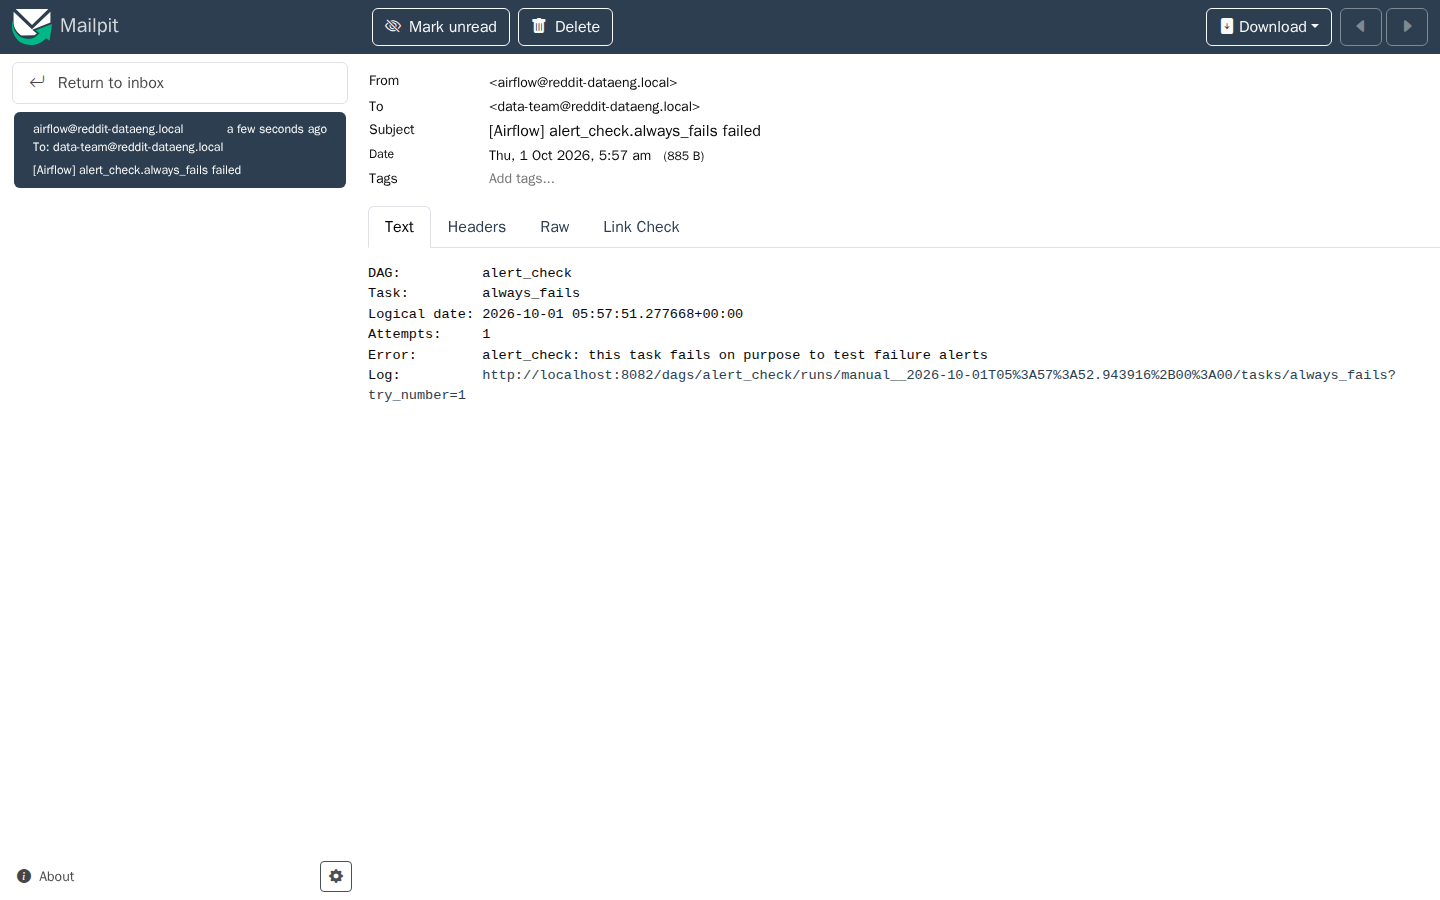
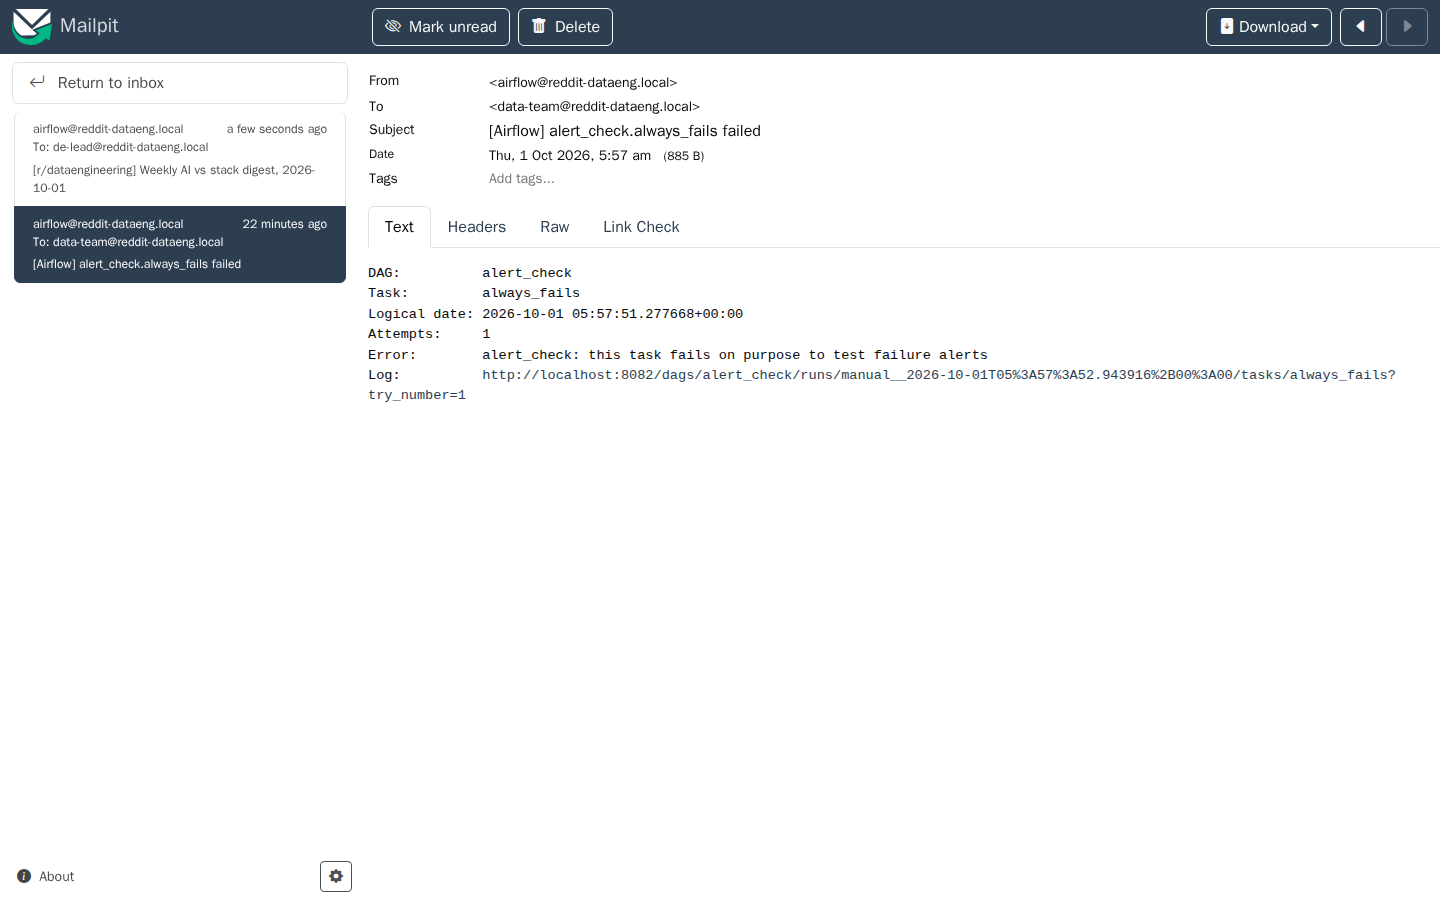
docs: document the weekly digest

Changed region(s): [[0.0, 0.1244, 0.25, 0.3422]]

diff --git a/scripts/screenshots.py b/scripts/screenshots.py
@@ -66,12 +66,13 @@ def rustfs(page: Page) -> None:
 
 
 def mailpit(page: Page) -> None:
-    # run `make alert-test` first so the inbox has an alert in it
-    page.goto(f"http://{HOST}:{os.environ.get('MAILPIT_PORT', '8025')}/", wait_until="networkidle")
-    page.locator(".message").first.click()
-    page.wait_for_load_state("networkidle")
-    page.wait_for_timeout(2_000)
-    save(page, "mailpit-alert.png")
+    # run `make alert-test` and `make digest-test` first so the inbox has one of each
+    for name, subject in (("mailpit-alert.png", "failed"), ("mailpit-digest.png", "digest")):
+        page.goto(f"http://{HOST}:{os.environ.get('MAILPIT_PORT', '8025')}/", wait_until="networkidle")
+        page.locator(".message", has_text=subject).first.click()
+        page.wait_for_load_state("networkidle")
+        page.wait_for_timeout(2_000)
+        save(page, name)
 
 
 def main() -> None:

diff --git a/README.md b/README.md
@@ -23,7 +23,7 @@ Python · Airflow 3 · RustFS (S3) · ClickHouse · dbt · Streamlit · Docker C
 | Airflow | Daily `reddit_ingest` DAG and the Asset-triggered `reddit_dbt` DAG | http://localhost:8082 |
 | dbt | Staging, facts and marts, the `tools` seed and 64 tests | `make dbt-docs` → http://localhost:8081 |
 | Streamlit | Dashboard, reading marts as the read-only `dashboard` user | http://localhost:8501 |
-| Mailpit | Local inbox for failure alerts from Airflow | http://localhost:8025 |
+| Mailpit | Local inbox for failure alerts and the weekly digest | http://localhost:8025 |
 
 The full design is in the [4+1 View Model](docs/architecture/).
 
@@ -44,7 +44,7 @@ top of storage, and every stage leans on the same undercurrents.
 | Serving | Marts granted to a read-only `analyst` role | [`scripts/create_users.sh`](scripts/create_users.sh) |
 | Analytics | Streamlit dashboard for a DE lead; it only selects from marts, no calculations of its own | [`dashboard/`](dashboard/) |
 | Machine learning | Not covered yet | — |
-| Reverse ETL | Not covered yet | — |
+| Reverse ETL | A weekly digest email to the DE lead, built from the marts by the `reddit_digest` DAG | [`scripts/send_digest.py`](scripts/send_digest.py), [`reddit_digest`](airflow/dags/reddit_digest.py) |
 
 | Undercurrent | In this project |
 |---|---|
@@ -52,7 +52,7 @@ top of storage, and every stage leans on the same undercurrents.
 | Data management | [Governance](docs/governance.md): pseudonymised usernames, PII tags, dbt docs and lineage, known data limits, raw-bucket backup and restore |
 | DataOps | dbt tests, source freshness gate, retries with backoff, email alerts on failed tasks, idempotent reloads, raw-bucket backup, and CI that runs the whole pipeline on fixtures |
 | Data architecture | [4+1 View Model](docs/architecture/) and key decisions |
-| Orchestration | Airflow 3: a daily ingest DAG, an Asset-triggered dbt DAG, and an `alert_check` DAG that tests the alert path |
+| Orchestration | Airflow 3: a daily ingest DAG, an Asset-triggered dbt DAG, a weekly digest DAG, and an `alert_check` DAG that tests the alert path |
 | Software engineering | Conventional Commits, uv projects, Makefile, Docker Compose, pinned image versions, ruff and pytest |
 
 ## Features
@@ -64,6 +64,8 @@ top of storage, and every stage leans on the same undercurrents.
   source freshness check stops it on stale data.
 - **Failure alerts:** a task that still fails after its retries sends an email with the error
   and a link to its log.
+- **Weekly digest (reverse ETL):** every Monday the DE lead gets the headline numbers and the
+  biggest tool moves by email, without opening the dashboard.
 - **Tested models:** 64 dbt tests, unit tests for the scripts, and CI that runs the whole
   pipeline on synthetic fixtures.
 - **Governed serving:** usernames are pseudonymised and the dashboard can read marts only.
@@ -120,7 +122,7 @@ When the backfill is done, the `reddit-raw` bucket holds one file per day for po
 | What | Where |
 |---|---|
 | Dashboard | http://localhost:8501 |
-| Failure alerts (Mailpit) | http://localhost:8025 |
+| Failure alerts and weekly digest (Mailpit) | http://localhost:8025 |
 | Airflow (airflow / airflow) | http://localhost:8082 (`AIRFLOW_PORT` in `.env`) — unpause `reddit_ingest` (daily at 02:00 UTC) and `reddit_dbt` (runs after each ingest) |
 | RustFS console | http://localhost:9001/rustfs/console/ (RustFS keys from `.env`) |
 | dbt docs and lineage | `make dbt-docs`, then http://localhost:8081 |
@@ -135,8 +137,13 @@ in Mailpit; `make alert-test` runs the `alert_check` DAG, which fails on purpose
 
 ![Mailpit: failure alert](docs/images/mailpit-alert.png)
 
-To send alerts to a real inbox, point `ALERT_SMTP_HOST`, `ALERT_SMTP_PORT` and `ALERT_EMAIL_TO`
-at your mail server.
+Every Monday at 06:00 UTC, `reddit_digest` reads the marts as the read-only `dashboard` user and
+emails the DE lead a short digest; `make digest-test` sends one now:
+
+![Mailpit: weekly digest](docs/images/mailpit-digest.png)
+
+To send alerts and the digest to a real inbox, point `SMTP_HOST`, `SMTP_PORT`, `ALERT_EMAIL_TO`
+and `DIGEST_EMAIL_TO` at your mail server.
 
 `make screenshots` captures these images again from the running stack.
 
@@ -163,6 +170,7 @@ Run `make` (or `make help`) to list them:
 | `make ingest-test DAY=…` | Run the `reddit_ingest` DAG once for one day (extract and load only) |
 | `make dbt-test` | Run the `reddit_dbt` DAG once (source freshness, then dbt build) |
 | `make alert-test` | Run the `alert_check` DAG once; a failure email should appear in Mailpit |
+| `make digest-test` | Run the `reddit_digest` DAG once; the weekly digest should appear in Mailpit |
 | `make screenshots [SHOTS=…]` | Capture the README screenshots from the running stack into `docs/images/` |
 | `make diagrams` | Render the PlantUML architecture diagrams to SVG |
 
@@ -211,7 +219,7 @@ the daily DAGs are running, and all 64 dbt tests pass.
 ## Tests and CI
 
     make lint    # ruff
-    make test    # unit tests for the extract, load and backup scripts and the alert email (no network)
+    make test    # unit tests for the scripts, the alert and the digest (no network)
 
 [GitHub Actions](.github/workflows/ci.yml) runs two jobs on every push and pull request to `main`:
 
@@ -228,11 +236,11 @@ comments and deleted accounts.
 
 | Path | What |
 |---|---|
-| `scripts/` | Extract from Arctic Shift to RustFS; load into ClickHouse with `s3()`; ClickHouse init scripts |
-| `airflow/` | Custom image (Airflow + dbt), the `reddit_ingest` DAG, the Asset-triggered `reddit_dbt` DAG, failure alerts and the `alert_check` DAG |
+| `scripts/` | Extract from Arctic Shift to RustFS; load into ClickHouse with `s3()`; send the weekly digest; ClickHouse init scripts |
+| `airflow/` | Custom image (Airflow + dbt), the `reddit_ingest` DAG, the Asset-triggered `reddit_dbt` DAG, the weekly `reddit_digest` DAG, failure alerts and the `alert_check` DAG |
 | `dbt/reddit/` | Staging, facts and marts for posts and comments (including the dashboard's comparison marts), the `tools` seed, macros and 64 tests |
 | `dashboard/` | Streamlit dashboard for a DE lead, reading the marts as the read-only `dashboard` user |
-| `tests/` | Unit tests (including the alert email), synthetic fixtures and end-to-end checks |
+| `tests/` | Unit tests (including the alert and digest emails), synthetic fixtures and end-to-end checks |
 | `.github/workflows/` | CI: lint, unit tests and the pipeline end to end |
 | `docs/architecture/` | 4+1 View Model (PlantUML) |
 | `docs/images/` | README screenshots, captured by `make screenshots` |

diff --git a/docs/governance.md b/docs/governance.md
@@ -29,6 +29,8 @@ How this project handles personal data, access, freshness and known data-quality
   (`+grants` in `dbt_project.yml`).
 - Checked as `dashboard`: reading marts works; reading staging or raw, and any `INSERT`, fail with
   `ACCESS_DENIED`.
+- The weekly digest (reverse ETL) also reads the marts as `dashboard`, so an email can never
+  show more than the dashboard does, and it only carries aggregate shares.
 - The pipeline (Airflow, dbt, loader) uses the admin user from `.env`; credentials never live in the repo.
 
 ## Backup and restore
